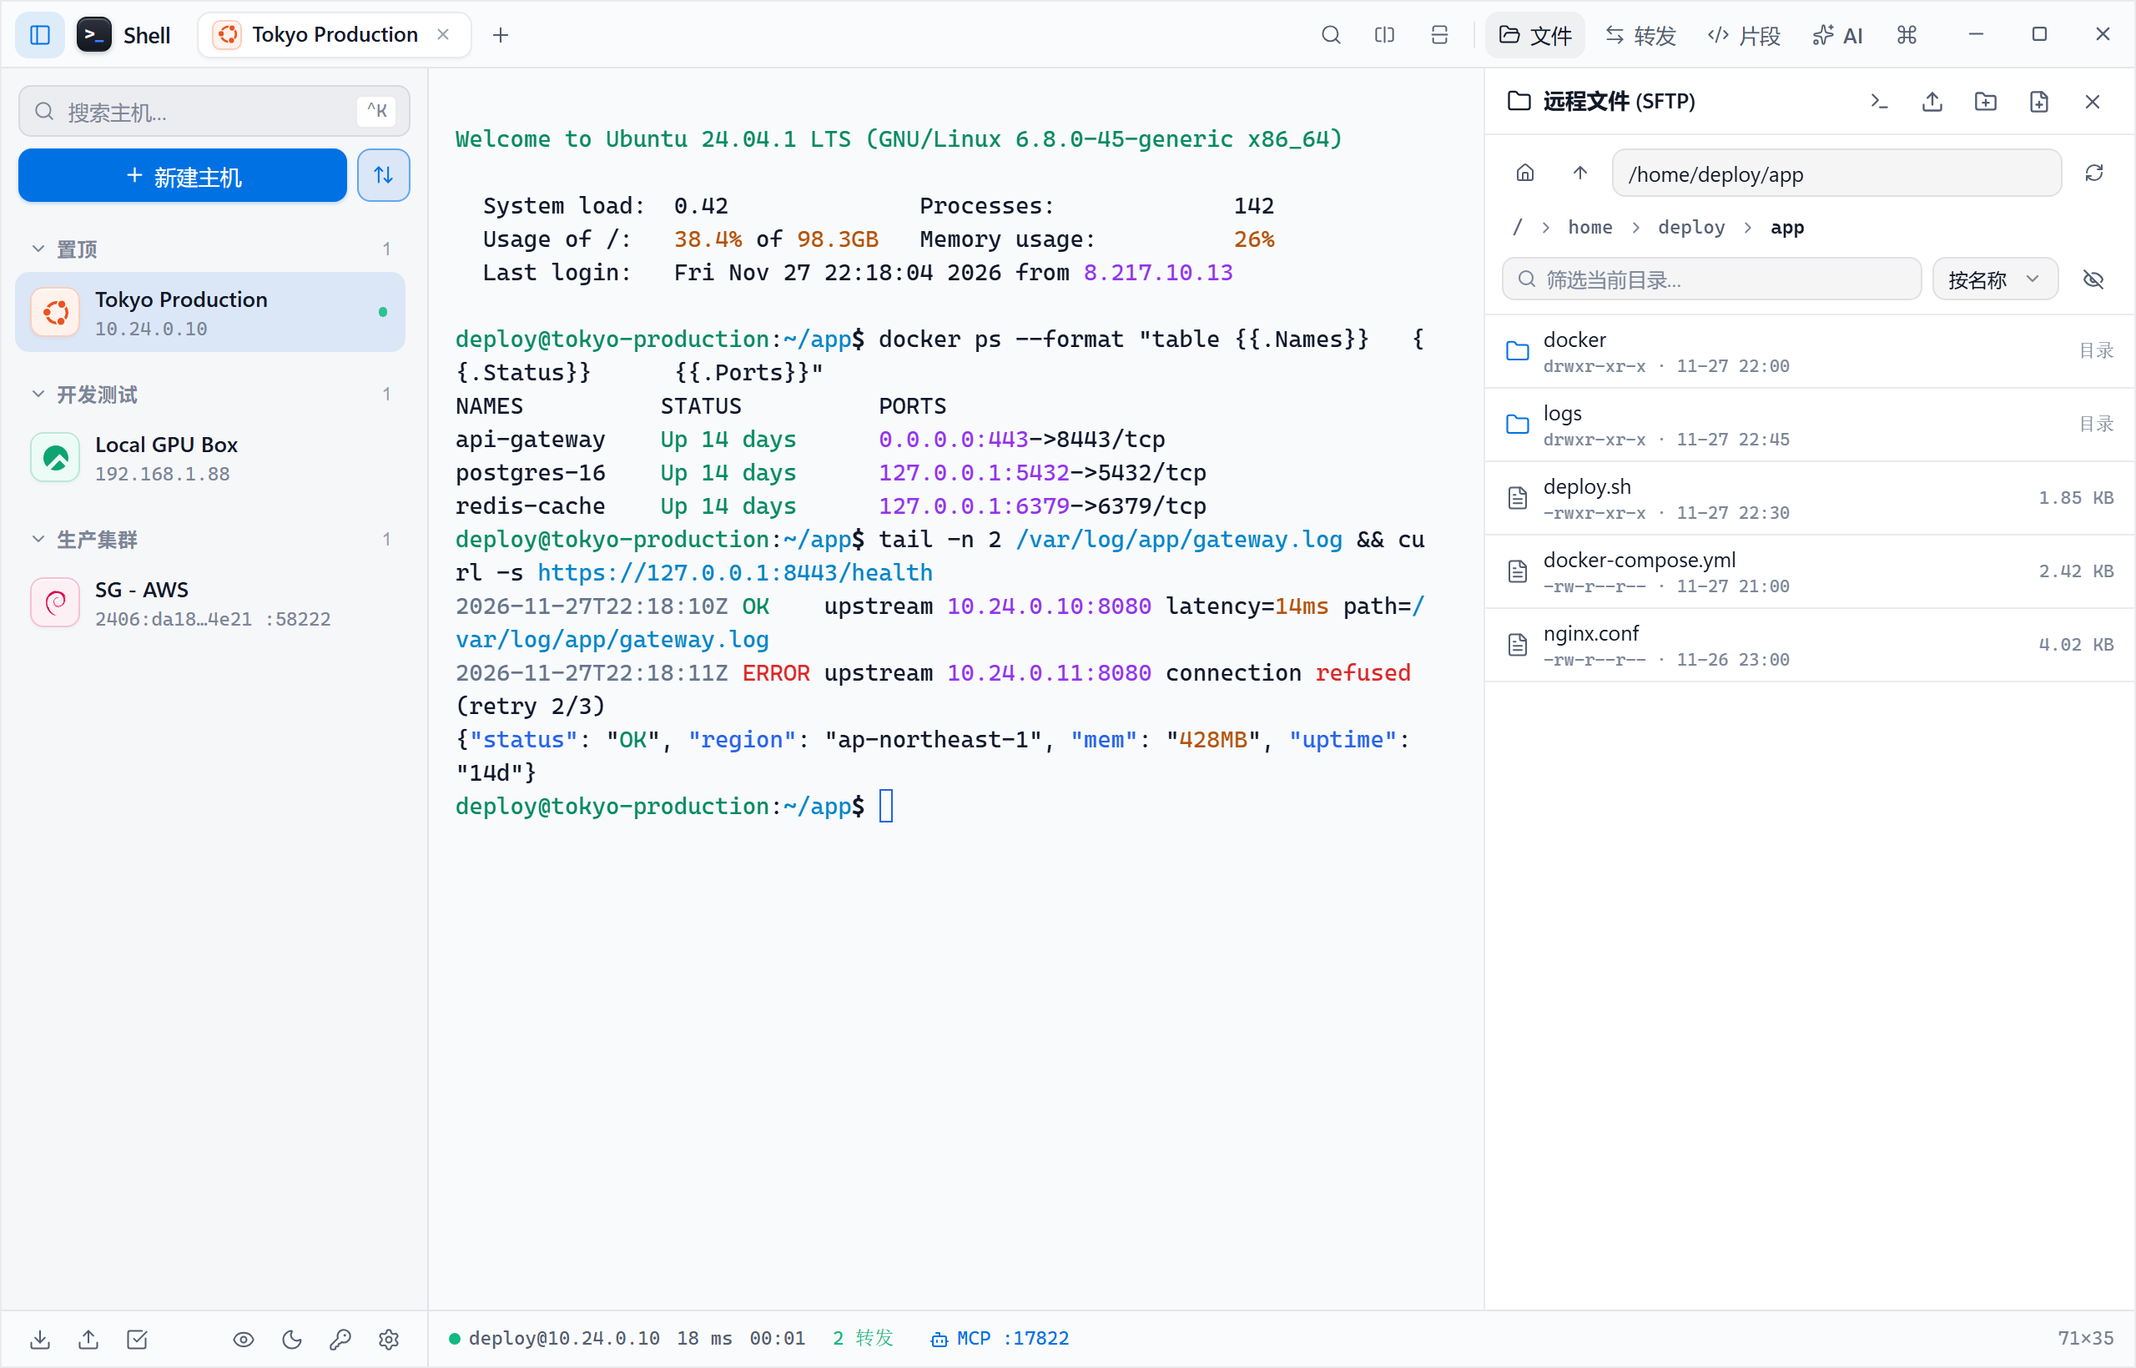
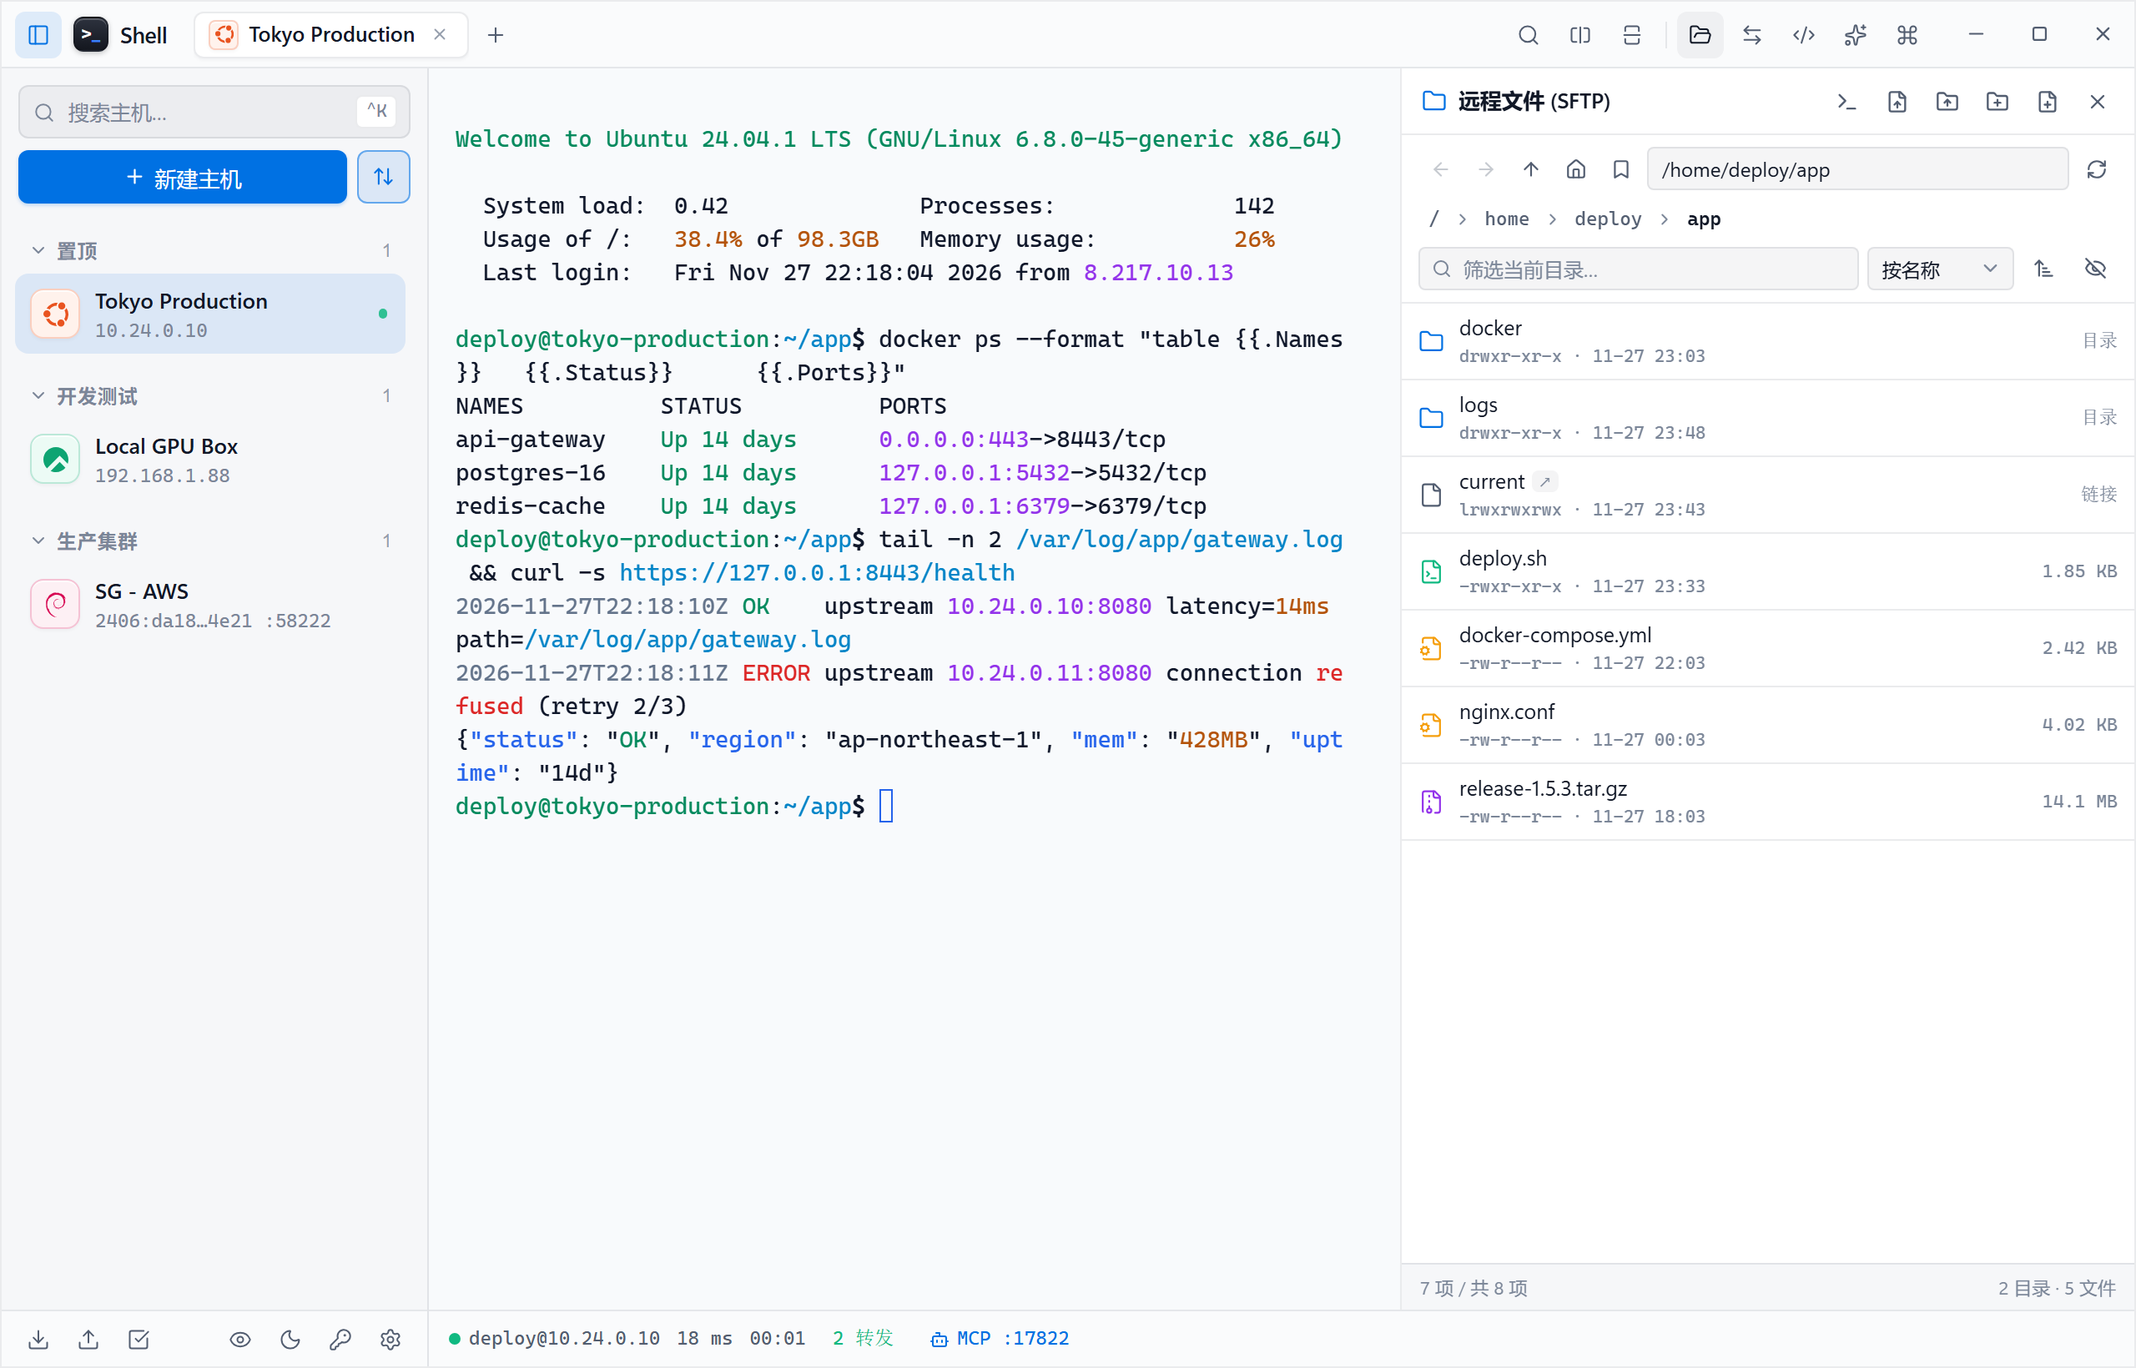
chore(release): 发布 v1.5.3
- 升级应用版本与锁文件至 1.5.3
- 新增 CHANGELOG.md v1.5.3 变更记录并更新中英文 README 与界面预览截图

diff --git a/README_EN.md b/README_EN.md
@@ -36,9 +36,9 @@ Built with Go 1.26, Wails v2 (WebView2), and xterm.js v6. Distributed as a singl
 ## Features
 
 - **SSH Engine & Routing**: Password, private key (encrypted/unencrypted), Windows OpenSSH Agent, keyboard-interactive 2FA, up to 5-hop `ProxyJump`, `ForwardAgent`, global & per-host **Direct / Windows System Proxy (with `ProxyOverride` bypass) / SOCKS5 / HTTP `CONNECT`** routing, KeepAlive, RTT latency measurement, and SHA-256 `known_hosts` verification.
-- **Terminal & Workspace**: Low-latency loopback binary WebSocket terminal powered by xterm.js v6 with `COLORTERM=truecolor`, optional WebGL acceleration, calibrated paired light/dark terminal themes synced to the daylight-readable UI appearance, safe stateful VT100/ANSI terminal syntax highlighting (prompts, IPv4, URLs, JSON keys, log levels, timestamps, paths, and metrics — TUI-safe and preserving existing ANSI colors), silent selection copy, centered minimal connecting indicator, recursive horizontal/vertical split panes (pick a saved host, current host, or new connection, drag live tabs / sidebar sessions to pane edges, or detach any split pane into a standalone tab while preserving terminal scrollback), broadcast input, regex search (`Ctrl+Shift+F`), command palette (`Ctrl+K`), OSC 7 working-directory tracking, ultra-quiet online status indicators, window bounds persistence, and native Windows system tray minimization.
+- **Terminal & Workspace**: Low-latency loopback binary WebSocket terminal powered by xterm.js v6 with `COLORTERM=truecolor`, optional WebGL acceleration, calibrated paired light/dark terminal themes synced to the daylight-readable UI appearance (`#1C2028` dark canvas seamlessly blended with chrome), safe stateful VT100/ANSI terminal syntax highlighting (prompts, IPv4, URLs, JSON keys, log levels, timestamps, paths, and metrics — TUI-safe and preserving existing ANSI colors), silent selection copy, inline real-time SSH connection progress tracking with clear error diagnostics and quick retry/edit actions, uniform icon-only toolbar, recursive horizontal/vertical split panes (pick a saved host, current host, or new connection, drag live tabs / sidebar sessions to pane edges, or detach any split pane into a standalone tab while preserving terminal scrollback), broadcast input, regex search (`Ctrl+Shift+F`), command palette (`Ctrl+K`), OSC 7 working-directory tracking, ultra-quiet online status indicators, window bounds persistence, and native Windows system tray minimization.
 - **Host IP Privacy Mode**: One-click persistent **Hide Host IP** toggle in the sidebar footer (and Preferences → Appearance) cleanly omits IPv4, IPv6, hostnames, and custom ports from the DOM across the sidebar, welcome screen, tabs, split headers, status bar, command palette, and export dialog with fixed row/card heights and smooth CSS transitions (zero dots, zero blur, zero layout shift) for clean screen-sharing and screenshots while keeping copy-address convenient.
-- **SFTP, Port Forwarding & Telemetry**: Integrated SFTP browser with virtualized large-directory rendering (single path resolve & on-demand symlink resolution), concurrent large-file transfers, atomic safe writes, drag-and-drop uploads, progress queue, `chmod`, and remote text editor; Local (`-L`), Remote (`-R`), and dynamic SOCKS5 (`-D`) tunnels; zero-sleep Linux CPU/RAM/disk/network telemetry with OS distro detection; persisted drag-and-drop host group reordering, batch host grouping, and batch deletion in the sidebar; rich built-in Linux snippet library; Ed25519/RSA-4096 key generator; AES-256-GCM + scrypt vault backup.
+- **Pro SFTP File Manager, CodeMirror 6 Editor, Port Forwarding & Telemetry**: Resizable SFTP drawer with navigation history (`Alt+Left/Right`), per-host quick bookmarks, virtualized large-directory rendering (single path resolve & on-demand symlink resolution), multi-select (`Ctrl/Shift/Ctrl+A`), full context menus, recursive folder upload/drag-and-drop, directory & batch downloads, remote copy/move, batch delete, visual 3×3 `chmod` matrix with recursive `chmod -R`, rich properties dialog (symlink target, UID/GID, octal/symbolic permissions), collapsible transfer queue with live throughput speed and reveal-in-Explorer, and a built-in **CodeMirror 6 remote editor** (18 language/config highlighters, line numbers & code folding, search/replace, word wrap, `LF/CRLF` conversion, synced dark/light themes, unsaved-change guard, and atomic permission-preserving saves); Local (`-L`), Remote (`-R`), and dynamic SOCKS5 (`-D`) tunnels; zero-sleep Linux CPU/RAM/disk/network telemetry with OS distro detection; persisted drag-and-drop host group reordering and refined sidebar batch management; rich built-in Linux snippet library; Ed25519/RSA-4096 key generator; AES-256-GCM + scrypt vault backup.
 - **Universal Config Importer & Unified OpenSSH Export**: Compact icon-only **Import** and **Export** buttons in the bottom-left sidebar footer. Auto-detects imports from Netcatty (`.csv`), Xshell (`.xsh`/`.xts`/`.zip`), MobaXterm (`.mxtsessions`), Termius (`.csv`/`.json`), Tabby (`.yaml`), Electerm (`.json`), SecureCRT (`.xml`/`.ini`), PuTTY/KiTTY (`.reg`), WindTerm, FinalShell, OpenSSH `config`, and generic CSV/JSON/text while preserving groups, credentials, jump hosts, and proxy settings. Simplified fixed-size **Host Export** modal with select-all exports selected hosts directly to a standard **OpenSSH config** file (including `ProxyJump` dependencies, ready for OpenSSH, VS Code Remote - SSH, and WinSCP) while keeping passwords and private key contents strictly on the local machine.
 - **AI Assistant & High-Speed MCP Server**: Built-in latest flagship presets for Claude (`claude-sonnet-5-5`), ChatGPT (`gpt-6.2-sol`), Gemini (`gemini-4-neon`), and DeepSeek (`deepseek-flash`) with an editable model combobox and one-click live model list refresh (supporting Anthropic, Gemini native/OpenAI-compat, OpenAI, DeepSeek, Ollama, and custom relays via Windows system proxy) plus local AI CLIs (Claude Code, Codex CLI, Antigravity CLI `agy`); high-speed MCP `2025-03-26` server with ProxyJump client pooling/reuse, parallel warm `sh -s` exec workers, early-ready visible handoffs with aligned multi-line mirroring and automatic shell prompt redraw, fast AEAD/KEX preference, in-memory `known_hosts`/profile caches, Streamable HTTP (`127.0.0.1:17822/mcp`), Windows named-pipe stdio (`Shell.exe --mcp`), **Silent Background (Tray)** and **Visible Terminal** execution modes, unified default auto-allow policy across AI/CLI/MCP (prompting only on truly catastrophic or sensitive system operations, with smooth legacy migration), automatic secret/PII redaction, and JSONL audit logging.
 - **Resilient Zero-Leftover In-App Auto-Update**: Built-in version checker and self-updater that stages and verifies PE headers + `SHA256SUMS.txt` in `%LOCALAPPDATA%\Shell\updates\`, performs clean detached atomic replacement via `--apply-update` (with native Windows UAC elevation for protected directories such as `Program Files`), leaves zero `.old` files behind, and cleans up legacy leftovers automatically.

diff --git a/README.md b/README.md
@@ -50,14 +50,14 @@
 - **连接维护**：支持心跳保活（KeepAlive）、往返延迟（RTT）测量、SSH 主机指纹校验（SHA-256 `known_hosts`）及登录后自动执行启动命令。
 
 ### 终端与工作区
-- **低延迟终端引擎与语法高亮**：基于本机回环二进制 WebSocket 直通数据流（`TCP_NODELAY`、空闲零延迟即时回显与突发帧合并）和 xterm.js v6，自动协商 `COLORTERM=truecolor`，支持 Unicode 11 宽字符、URL 点击打开、OSC 7 工作目录追踪、静默无弹窗选区复制及可选 WebGL 硬件渲染；内置校准后的多套深浅色终端主题与基于 VT100/ANSI 状态机的终端实时语法高亮（自动着色提示符、IPv4、URL、JSON 键名、日志级别、路径与度量单位，兼容全屏 TUI 与已有 ANSI 色彩，可按需开关），连接过程采用顶部细线流光进度条与居中极简主机呼吸动效。
+- **低延迟终端引擎与连接诊断**：基于本机回环二进制 WebSocket 直通数据流（`TCP_NODELAY`、空闲零延迟即时回显与突发帧合并）和 xterm.js v6，自动协商 `COLORTERM=truecolor`，支持 Unicode 11 宽字符、URL 点击打开、OSC 7 工作目录追踪、静默无弹窗选区复制及可选 WebGL 硬件渲染；内置与外框无缝融合的校准深浅色终端主题（Termius Dark `#1C2028`）与基于 VT100/ANSI 状态机的终端实时语法高亮（自动着色提示符、IPv4、URL、JSON 键名、日志级别、路径与度量单位，兼容全屏 TUI 与已有 ANSI 色彩，可按需开关）；连接过程实时呈现内联步骤追踪（跳板机 / 建连 / 认证 / 会话就绪），失败时提供中文错误诊断、原始错误详情及一键重连/编辑配置。
 - **多窗分屏、拖拽编排与独立拆分**：支持单标签内任意递归水平 / 垂直分屏（分屏时可选择已保存主机、当前主机或新建连接）、拖拽调节分屏比例、直接拖拽已连接会话标签或侧栏在线主机至目标终端边缘重排布局，支持将任意分屏子窗格一键「移出为独立标签页」并完整保留终端滚动历史，以及多窗格广播输入。
 - **零抖动隐私模式与克制状态指示**：侧边栏底栏与偏好设置内置一键 **隐藏主机 IP（隐私模式）** 开关，开启后直接隐藏所有界面的 IP 与端口（不留明文 DOM、无占位圆点、锁定行高平滑过渡零跳动，适合演示、录屏与截图）；侧边栏以右侧极简圆点低调提示在线状态，已连接标签页保持干净克制。
 - **高效交互与窗口持久化**：支持标签右键复制会话、向右/向下分屏、移出子窗格与关闭其他标签，`Ctrl+1..9` / `Ctrl+Tab` 切换标签，`Ctrl+Shift+F` 终端内正则搜索，`Ctrl+K` 全局命令面板；自动记忆上次窗口尺寸与最大化状态并自适应窗口缩放。
 - **系统托盘**：支持关闭窗口时最小化至 Windows 系统托盘以保持端口转发与 MCP 服务后台运行；左键单击唤起主窗口，托盘右键菜单精简为「断开全部会话」与「退出 Shell」。
 
 ### 文件管理、监控与资产管理
-- **高性能 SFTP 文件管理**：提供面包屑路径导航、系统资源管理器拖放上传、虚拟化大目录列表（单次路径解析与按需符号链接查询，海量文件流畅滚动）、多任务并发大文件传输与取消、原子安全写入覆盖保护、目录新建、重命名、权限修改（`chmod`）及内置远程文本编辑器。
+- **专业级 SFTP 文件管理与 CodeMirror 6 远端编辑器**：文件抽屉支持左侧拖拽调节宽度、面包屑与历史前进/后退、按主机持久化的目录书签、虚拟化大目录列表（单次路径解析与按需符号链接查询）、多选（`Ctrl/Shift/Ctrl+A`）与完整右键菜单；支持文件夹递归上传/拖放与目录/批量下载、远端复制/移动、批量删除、3×3 可视化权限矩阵与递归 `chmod -R`、完整属性详情（含软链目标与 UID/GID）、实时速率传输队列及下载文件一键定位；内置基于 CodeMirror 6 的远端代码编辑器，提供 18 种语言与运维配置高亮、行号折叠、查找替换、自动换行、`LF/CRLF` 切换、深浅主题联动、未保存修改拦截与原子安全写入（保留原权限）。
 - **零休眠服务器状态监控**：复用现有 SSH 连接无休眠采样远程 Linux 主机的 CPU、内存、磁盘、系统负载、运行时长与实时网络吞吐速率，并自动识别远程系统发行版图标（Ubuntu、Debian、CentOS、Rocky、Alpine、Arch、Fedora 等）。
 - **主机与密钥管理**：支持主机分组及侧边栏分组上下手动拖拽排序并持久化、发行版图标与标记色、置顶排序、侧栏主机批量分组与批量删除、`known_hosts` 卡片表头全选/半选批量清理、内置丰富 Linux 运维命令的 `{{变量}}` 占位符片段库、本地 Ed25519 / RSA-4096 密钥生成与公钥一键部署（`~/.ssh/authorized_keys`）。
 - **加密备份**：支持导出与恢复主机资料、命令片段与偏好设置；设置口令后采用 `AES-256-GCM` + `scrypt` 加密封装。

diff --git a/CHANGELOG.md b/CHANGELOG.md
@@ -2,6 +2,21 @@
 
 本项目的版本变更遵循 [语义化版本 2.0.0](https://semver.org/lang/zh-CN/) 规范。
 
+## [1.5.3] - 2026-11-27
+
+### 连接进度与错误诊断
+- **内联 SSH 连接追踪与中文错误诊断**：移除连接就绪前终端左上角闪烁光标以及流光/呼吸占位动效，改为在终端区域内实时展示极简连接步骤（跳板机链路、TCP 建连、主机指纹与凭据认证、打开终端会话）；初次连接失败时自动归类并展示清晰的中文错误原因、可选中复制的原始错误详情，以及一键「重新连接 / 编辑配置」操作（支持回车快速重试）。
+
+### 终端视觉与界面设计系统统一
+- **深色终端背景还原与纯图标工具栏**：将 Termius Dark 终端画布背景恢复为与外框无缝融合的 `#1C2028`（完整保留校准后的 16 色阶与实时语法高亮）；移除状态栏右下角终端行列尺寸显示；右上角工具栏（文件、转发、片段、AI、命令面板等）统一为紧凑一致的纯图标按钮风格。
+- **全站设计刻度统一与设置页对齐**：统一全站 4 级圆角刻度（`4 / 6 / 8 / 12px`）与 3 级控件高度（`28 / 32 / 38px`），统一各弹窗复选框与底部按钮尺寸；对齐「偏好设置 → 关于 / 备份 / SSH 密钥 / Agent 与安全」等页面的纵向操作按钮列宽。
+- **侧栏批量主机管理重构**：进入批量管理时在顶部切换为固定高度的「全选复选框（含半选态与实时计数）+ 完成」退出栏（支持 `Esc` 快捷键退出）且零垂直跳动；主机行改用统一自定义复选框；底栏精简为等宽双按钮「移动分组」与「删除」。
+
+### 专业级 SFTP 文件管理与 CodeMirror 6 远端编辑器
+- **桌面级 SFTP 文件操作**：支持文件夹递归上传与资源管理器直接拖放文件夹、远端目录下载与多选批量下载、远端文件/目录复制与移动、批量删除、3×3 可视化权限矩阵与目录递归 `chmod -R`、完整属性详情（含符号链接目标、八进制/符号权限、UID/GID、时间戳与目录子项数）以及下载完成后一键在资源管理器中定位文件。
+- **SFTP 交互与传输队列升级**：文件抽屉支持左侧边缘拖拽调节宽度（自动持久化，双击恢复默认）、历史前进/后退（`Alt+←/→`）、按主机持久化的常用目录书签、多选交互（`Click / Ctrl / Shift / Ctrl+A`）与完整右键菜单（单文件、单目录、多选、空白区），以及可折叠传输队列面板（展示实时传输速率、当前子项、取消传输与内联错误详情）。
+- **CodeMirror 6 远端代码与配置编辑器**：内置远端文本编辑器全面升级为 CodeMirror 6（支持最高 4 MiB UTF-8 文本与二进制安全拦截），提供 18 种语言与运维配置自动识别高亮（Shell、Nginx、Dockerfile、YAML、JSON、TOML、INI、Go、Python、JS/TS、SQL、Markdown 等）、行号与代码折叠、中文化查找与替换（`Ctrl+F / Ctrl+H`）、自动换行、字号缩放、`LF / CRLF` 换行符切换、深浅主题实时联动以及未保存修改关闭/重载拦截保护。
+
 ## [1.5.2] - 2026-11-27
 
 ### 终端配色、语法高亮与交互体验
